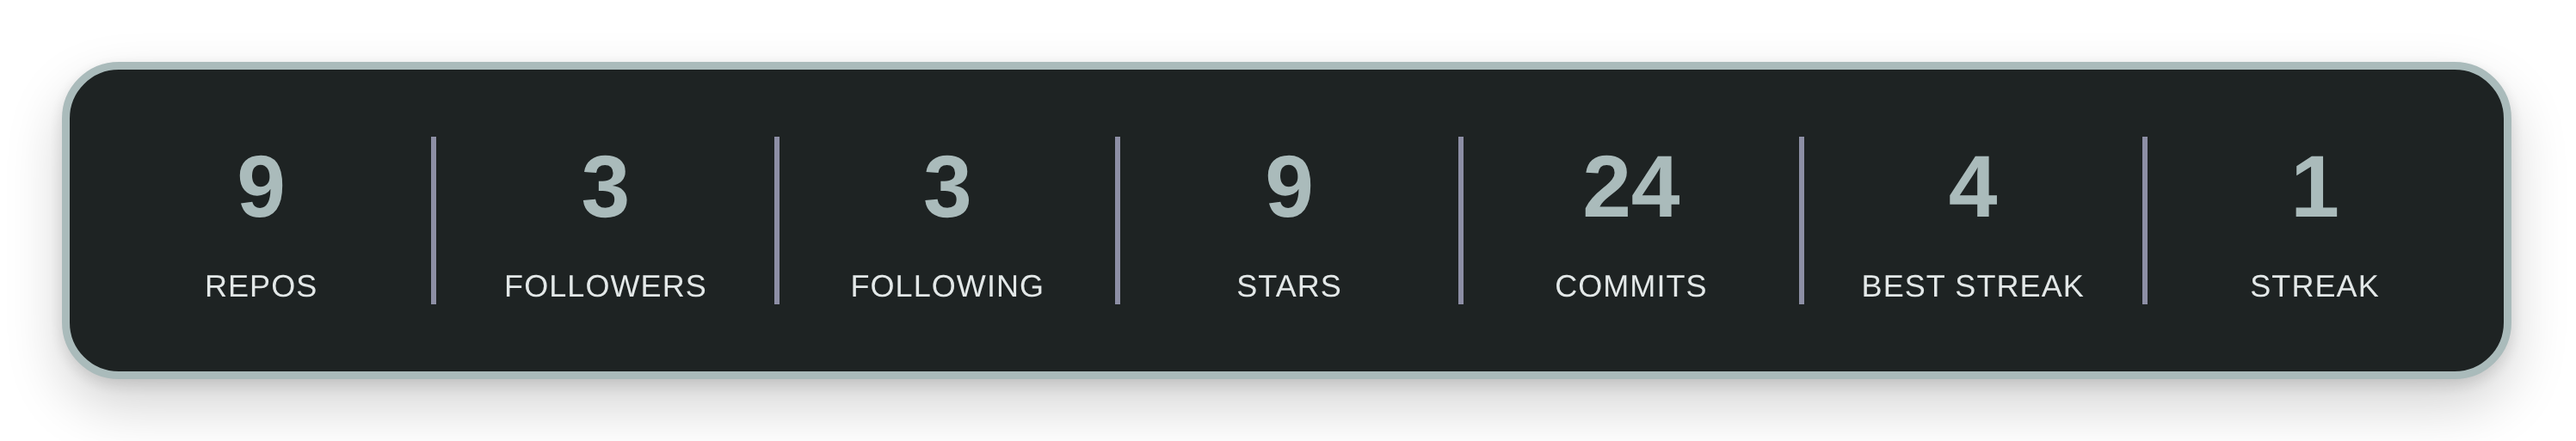
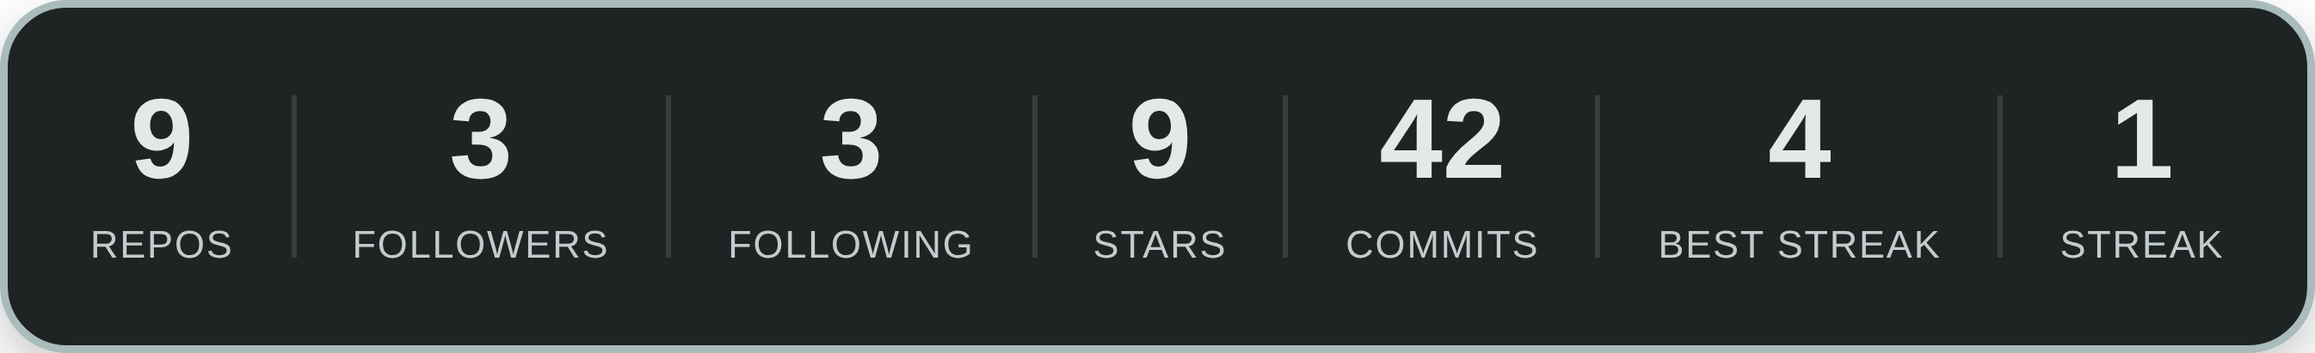
Refresh stats card with current repo numbers
Commits climbed to 42 (was 24) after today's redesign work; repos,
followers, following, stars, and streaks are unchanged. Widened the
card slightly to keep the 7-column grid comfortable.

diff --git a/README.md b/README.md
@@ -141,7 +141,7 @@ Computer Science student who likes building things end-to-end — AI simulations
 <p>
   <picture>
     <source media="(prefers-color-scheme: dark)" srcset="./.github/readme/stats-card-dark.png">
-    <img src="./.github/readme/stats-card-light.png" alt="9 public repos, 3 followers, 3 following, 9 stars, 24 commits, longest streak 4, current streak 1" width="700">
+    <img src="./.github/readme/stats-card-light.png" alt="9 public repos, 3 followers, 3 following, 9 stars, 42 commits, longest streak 4, current streak 1" width="760">
   </picture>
 </p>
 
